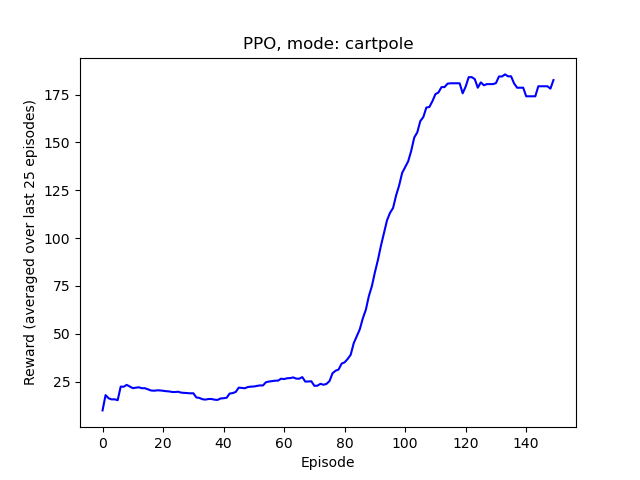
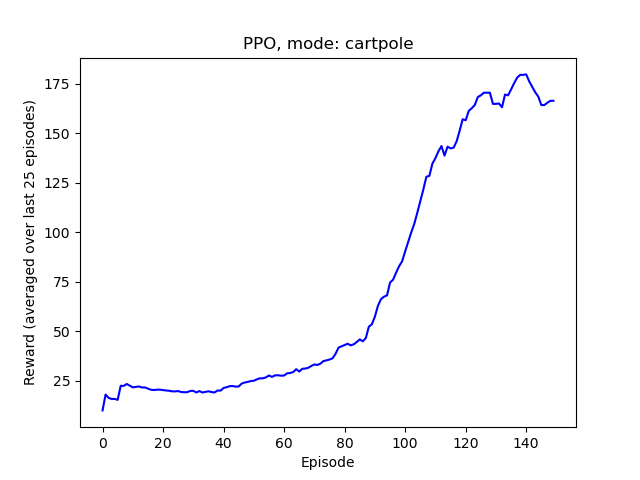
try sum se

diff --git a/a02/p2/PPO.py b/a02/p2/PPO.py
@@ -84,7 +84,7 @@ def policy(env, obs):
     return np.random.choice(ACT_N, p = probs.cpu().detach().numpy())
 
 def train(S,A,returns, old_log_probs):
-    value_criterion = torch.nn.MSELoss()
+    value_criterion = torch.nn.MSELoss(reduction='sum')
     for i in range(POLICY_TRAIN_ITERS):
         # Update value networks
         value_loss = value_criterion(V(S).squeeze(), returns)
